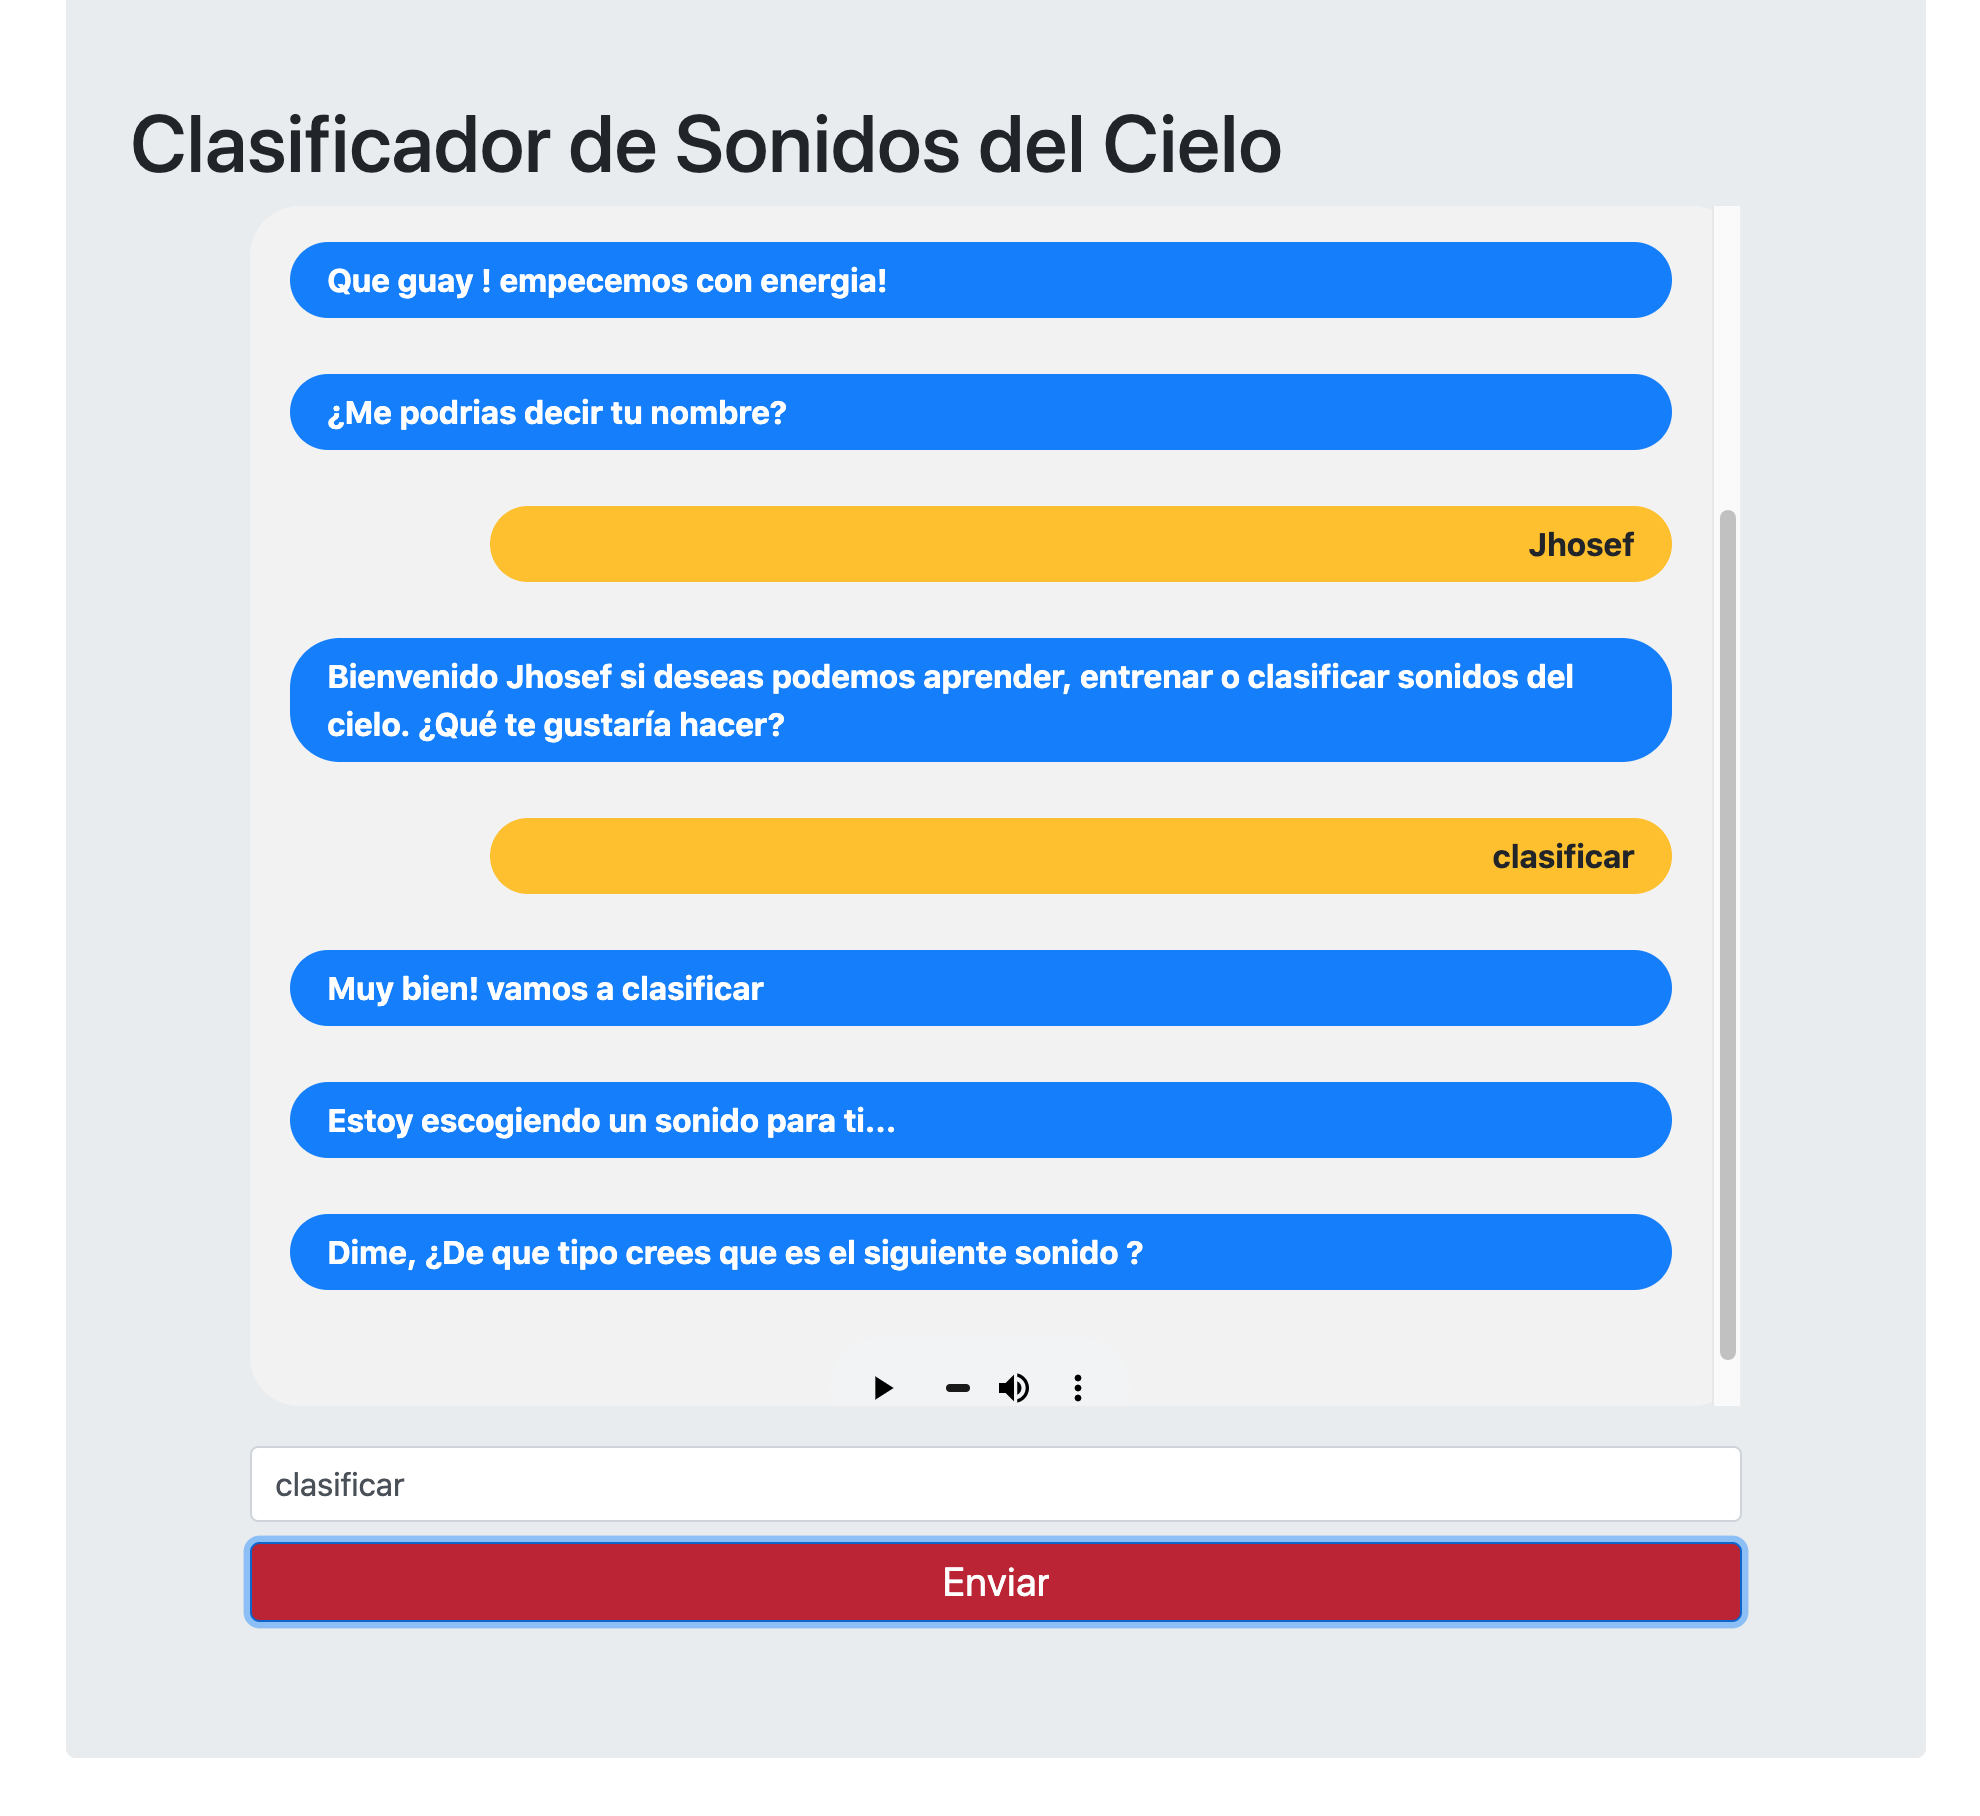
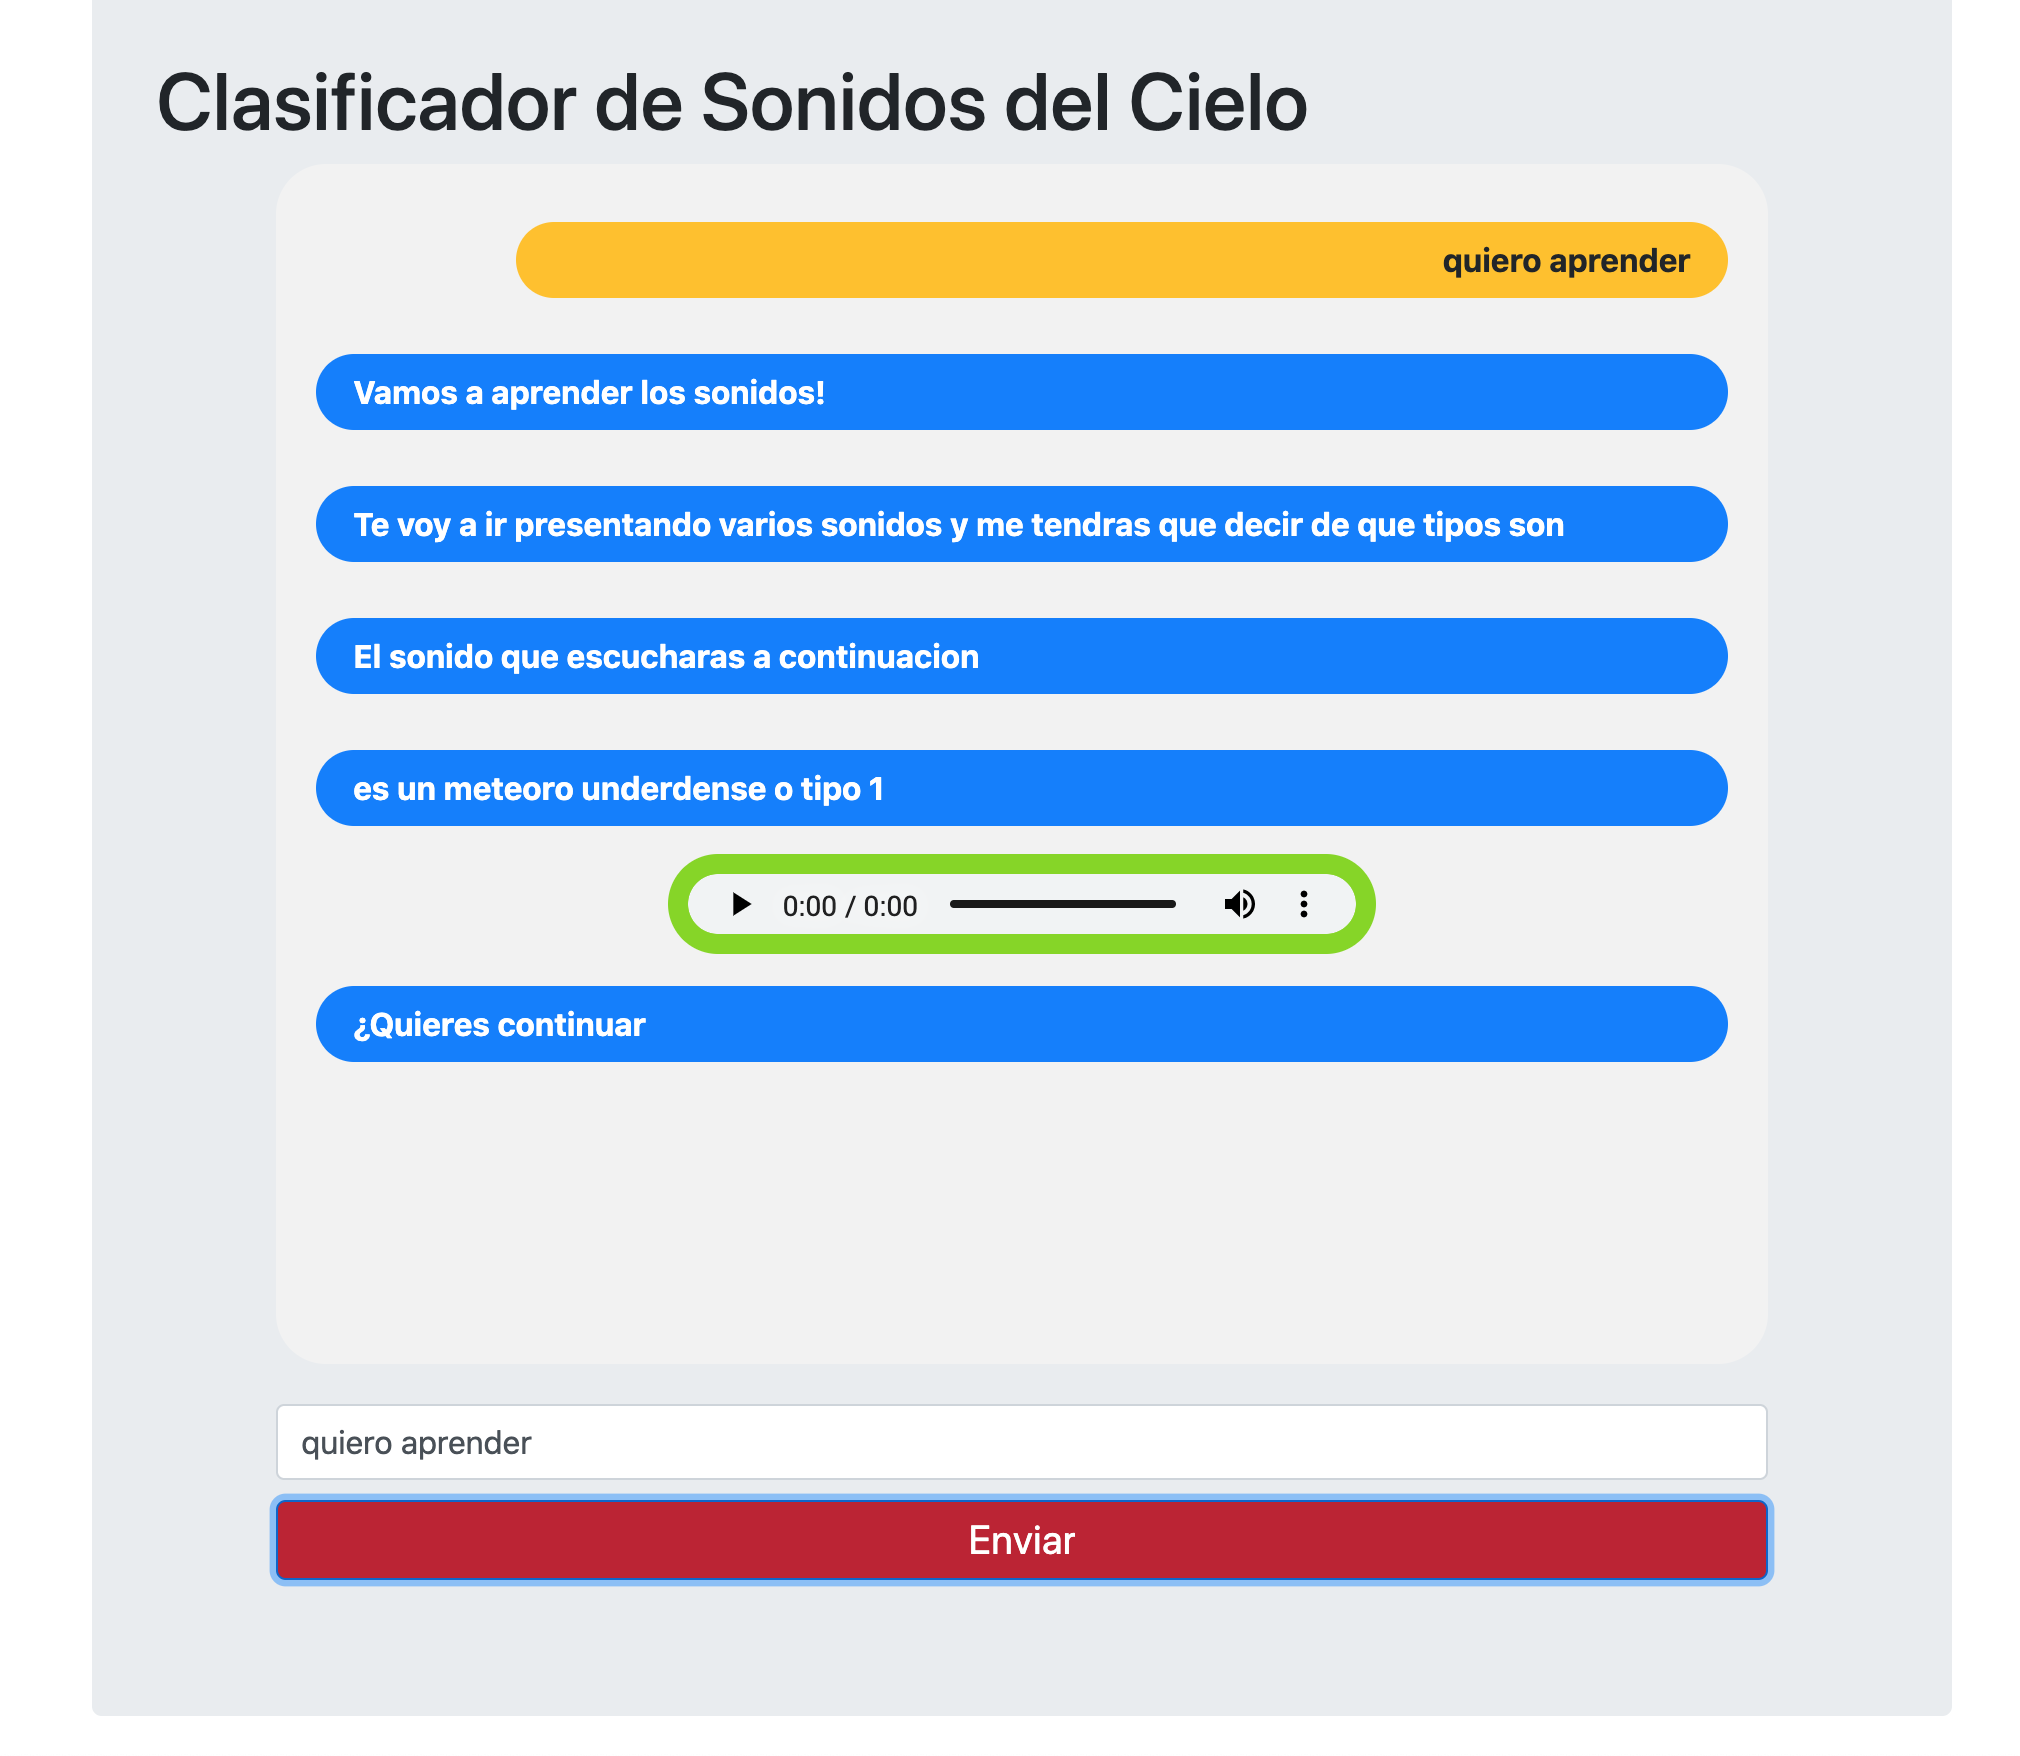
Sound player fixed

diff --git a/mvc_vista_frontal/mysite/videoclub27/static/videoclub27/styles/styles-home.css b/mvc_vista_frontal/mysite/videoclub27/static/videoclub27/styles/styles-home.css
@@ -64,5 +64,13 @@ background-color: #f2f2f2;
   margin-bottom: 10px;
 }
 #sound-control{
-  margin-top: 20px;
+  margin-top: 10px;
+  margin-bottom: 10px;
+  border-radius: 25px;
+  padding-left:10px;
+  padding-top: 10px;
+  padding-bottom:10px;
+  padding-right: 10px;
+  background-color: #83d700;
+  width: 50%;
 }
